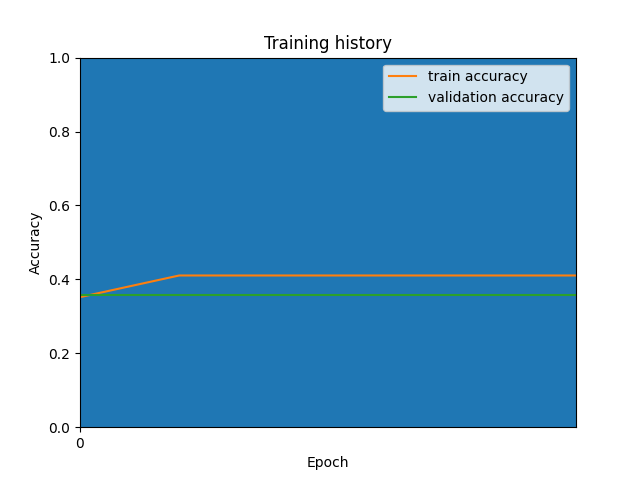
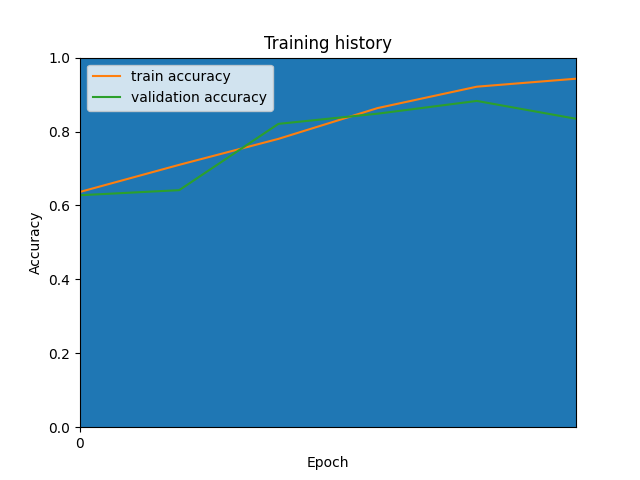
memory problem solved

diff --git a/BERT_Hierarchical_For.py b/BERT_Hierarchical_For.py
@@ -50,36 +50,66 @@ import os
 # 
 # get the 20newsgroups dataset and then split into training set (90%) and validation set(10%)
 
+print('Initializing BertTokenizer')
+
+BERTMODEL='bert-base-uncased'
+CACHE_DIR='transformers-cache'
+
+tokenizer = BertTokenizer.from_pretrained(BERTMODEL, cache_dir=CACHE_DIR,
+                                          do_lower_case=True)
+
 # In[ ]:
 
 
-categories = [ "alt.atheism", "talk.religion.misc", "comp.graphics",]
+#categories = [ "alt.atheism", "talk.religion.misc", "comp.graphics",]
 
 remove = ("headers", "footers", "quotes")
 
-newsgroups = fetch_20newsgroups(subset='train', categories=categories, shuffle=True, 
-                                        random_state=238, remove=remove)
+# newsgroups = fetch_20newsgroups(subset='train', categories=categories, shuffle=True, 
+#                                        random_state=238, remove=remove)
 # val_ng = fetch_20newsgroups(subset='test',  categories=categories, shuffle=True, 
 #                                        random_state=42, remove=remove)
 
-# newsgroups = fetch_20newsgroups(subset='train', shuffle=True, 
-#                                       random_state=238, remove=remove)
+newsgroups = fetch_20newsgroups(subset='train', shuffle=True, 
+                                       random_state=238, remove=remove)
 # test_ng = fetch_20newsgroups(subset='test', shuffle=True, 
 #                                       random_state=238, remove=remove)
 
+
+
 data_train, data_val, label_train, label_val = train_test_split(newsgroups.data, newsgroups.target, test_size=0.1, random_state=42)
+
+
 label_train = label_train.tolist()
 label_val = label_val.tolist()
+"""
+tokenized_data = [tokenizer.tokenize(data) for data in data_train]
+data_length = [len(i) for i in tokenized_data]
+del_data_index = sorted(range(len(data_length)), key=lambda x: data_length[x])[-1000:]
+for index in sorted(del_data_index, reverse=True):
+    del data_train[index]
+    del label_train[index]
+
+tokenized_data = [tokenizer.tokenize(data) for data in data_val]
+data_length = [len(i) for i in tokenized_data]
+del_data_index = sorted(range(len(data_length)), key=lambda x: data_length[x])[-100:]
+for index in sorted(del_data_index, reverse=True):
+    del data_val[index]
+    del label_val[index]
+"""
 train_ng = {'data': data_train, 'target': label_train}
 val_ng = {'data': data_val, 'target': label_val}
 
-print("data loaded")
+#data_train = data_train.pop(66)
+#label_train = label_train.tolist().pop(66)
 
 # print('size of training set:', len(train_ng.data))
 # print('size of validation set:', len(val_ng.data))
 # print('classes:', train_ng.target_names)
 print('size of training set:', len(data_train))
+print('size of training set:', len(label_train))
 print('size of validation set:', len(data_val))
+print('size of validation set:', len(label_val))
 print('classes:', newsgroups.target_names)
 
 # data_train = train_ng.data
@@ -105,20 +135,19 @@ plt.show()
 # In[ ]:
 
 
-print('Initializing BertTokenizer')
+#print('Initializing BertTokenizer')
 
-BERTMODEL='bert-base-uncased'
-CACHE_DIR='transformers-cache'
+#BERTMODEL='bert-base-uncased'
+#CACHE_DIR='transformers-cache'
 
-tokenizer = BertTokenizer.from_pretrained(BERTMODEL, cache_dir=CACHE_DIR,
-                                          do_lower_case=True)
-
+#tokenizer = BertTokenizer.from_pretrained(BERTMODEL, cache_dir=CACHE_DIR,
+#                                          do_lower_case=True)
 
 # In[ ]:
 
 
 if torch.cuda.is_available():    
-    device = torch.device("cuda:2") # specify  devicethe
+    device = torch.device("cuda:1") # specify  devicethe
     print('There are %d GPU(s) available.' % torch.cuda.device_count())
     print('We will use the GPU:', torch.cuda.get_device_name(0))
 
@@ -262,7 +291,7 @@ def create_data_loader(newsgroups, tokenizer, max_len, batch_size):
 
 
 BATCH_SIZE = 16
-#BATCH_SIZE = 4
+#BATCH_SIZE = 83
 MAX_LEN = 512
 
 train_data_loader = create_data_loader(train_ng, tokenizer, MAX_LEN, BATCH_SIZE)
@@ -289,12 +318,26 @@ class BERT_Hierarchical_Model(nn.Module):
         # pooled_output shape: (number of segments of all documents in one batch * 786)
         # In this small example, 7 * 786
         # here not batch_size * 786 because of segmentation of long document
-        _, pooled_output = self.bert(
-            input_ids = input_ids,
-            attention_mask = attention_mask,
-            return_dict=False
-        )
-        
+        # print(input_ids.shape)
+        max_num = 32
+        input_ids = torch.split(input_ids, max_num)
+        attention_mask = torch.split(attention_mask, max_num)
+        print(len(input_ids))
+        print(len(attention_mask))
+        pooled_output_list=[]
+        for i in range(len(input_ids)):
+            _, pooled_output = self.bert(
+              input_ids = input_ids[i],
+              attention_mask = attention_mask[i],
+              return_dict=False
+            )
+            pooled_output_list.append(pooled_output)
+        print(len(pooled_output_list))
+        pooled_output = torch.cat(pooled_output_list)
+        #_, pooled_output = self.bert(
+         #    input_ids = input_ids,
+          #   attention_mask = attention_mask,
+           #  return_dict=False)
         # split according to the number of segments 
         # then know which document the pooled_output belongs to 
         # chunks_emb (tensor([[doc1]]), tensor([[doc2]]), tensor([[doc3 seg1], [doc3 seg2], [doc3 seg3], [doc4 seg4]]), tensor([[doc4]])
@@ -324,10 +367,11 @@ model = model.to(device)
 
 
 # Hyperparameters
-EPOCHS = 10
+EPOCHS = 20
 #EPOCHS = 2
 
 optimizer = AdamW(model.parameters(), lr=2e-5)
+#optimizer = AdamW(model.parameters(), lr=1e-3)
 total_steps = len(train_data_loader) * EPOCHS
 
 scheduler = get_linear_schedule_with_warmup(
@@ -403,7 +447,7 @@ def train_epoch(model, data_loader, loss_fn, optimizer, device, scheduler, n_exa
     print(f"time = {time.time()-t0:.2f} secondes")
     t0 = time.time()
         
-    return np.mean(losses), float(correct_predictions / n_examples)
+    return np.mean(losses), correct_predictions / n_examples
 
 
 # In[ ]:
@@ -443,8 +487,8 @@ def eval_model(model, data_loader, loss_fn, device, n_examples):
 
             correct_predictions += torch.sum(preds == targets)
             losses.append(float(loss.item()))
-
-    return np.mean(losses), float(correct_predictions / n_examples)
+            torch.cuda.empty_cache()
+    return np.mean(losses), correct_predictions / n_examples
 
 
 # In[ ]:
@@ -505,7 +549,7 @@ plt.title('Training history')
 plt.ylabel('Accuracy')
 plt.xlabel('Epoch')
 plt.legend()
-plt.xlim([0, 5])
+#plt.xlim([0, 20])
 plt.ylim([0, 1])
 plt.savefig('BERT_Hierarchical_Model.png')
 

diff --git a/BERT_Hierarchical_Large.py b/BERT_Hierarchical_Large.py
@@ -50,10 +50,18 @@ import os
 # 
 # get the 20newsgroups dataset and then split into training set (90%) and validation set(10%)
 
+print('Initializing BertTokenizer')
+
+BERTMODEL='bert-base-uncased'
+CACHE_DIR='transformers-cache'
+
+tokenizer = BertTokenizer.from_pretrained(BERTMODEL, cache_dir=CACHE_DIR,
+                                          do_lower_case=True)
+
 # In[ ]:
 
 
-categories = [ "alt.atheism", "talk.religion.misc", "comp.graphics",]
+#categories = [ "alt.atheism", "talk.religion.misc", "comp.graphics",]
 
 remove = ("headers", "footers", "quotes")
 
@@ -68,16 +76,37 @@ newsgroups = fetch_20newsgroups(subset='train', shuffle=True,
 #                                       random_state=238, remove=remove)
 
 data_train, data_val, label_train, label_val = train_test_split(newsgroups.data, newsgroups.target, test_size=0.1, random_state=42)
+
+
+label_train = label_train.tolist()
+label_val = label_val.tolist()
+tokenized_data = [tokenizer.tokenize(data) for data in data_train]
+data_length = [len(i) for i in tokenized_data]
+del_data_index = sorted(range(len(data_length)), key=lambda x: data_length[x])[-1000:]
+for index in sorted(del_data_index, reverse=True):
+    del data_train[index]
+    del label_train[index]
+
+tokenized_data = [tokenizer.tokenize(data) for data in data_val]
+data_length = [len(i) for i in tokenized_data]
+del_data_index = sorted(range(len(data_length)), key=lambda x: data_length[x])[-100:]
+for index in sorted(del_data_index, reverse=True):
+    del data_val[index]
+    del label_val[index]
+
 train_ng = {'data': data_train, 'target': label_train}
 val_ng = {'data': data_val, 'target': label_val}
 
-print("data loaded")
+#data_train = data_train.pop(66)
+#label_train = label_train.tolist().pop(66)
 
 # print('size of training set:', len(train_ng.data))
 # print('size of validation set:', len(val_ng.data))
 # print('classes:', train_ng.target_names)
 print('size of training set:', len(data_train))
+print('size of training set:', len(label_train))
 print('size of validation set:', len(data_val))
+print('size of validation set:', len(label_val))
 print('classes:', newsgroups.target_names)
 
 # data_train = train_ng.data
@@ -103,14 +132,13 @@ plt.show()
 # In[ ]:
 
 
-print('Initializing BertTokenizer')
+#print('Initializing BertTokenizer')
 
-BERTMODEL='bert-base-uncased'
-CACHE_DIR='transformers-cache'
+#BERTMODEL='bert-base-uncased'
+#CACHE_DIR='transformers-cache'
 
-tokenizer = BertTokenizer.from_pretrained(BERTMODEL, cache_dir=CACHE_DIR,
-                                          do_lower_case=True)
-
+#tokenizer = BertTokenizer.from_pretrained(BERTMODEL, cache_dir=CACHE_DIR,
+#                                          do_lower_case=True)
 
 # In[ ]:
 
@@ -259,8 +287,8 @@ def create_data_loader(newsgroups, tokenizer, max_len, batch_size):
 # In[ ]:
 
 
-#BATCH_SIZE = 16
-BATCH_SIZE = 1
+BATCH_SIZE = 16
+#BATCH_SIZE = 83
 MAX_LEN = 512
 
 train_data_loader = create_data_loader(train_ng, tokenizer, MAX_LEN, BATCH_SIZE)
@@ -287,12 +315,21 @@ class BERT_Hierarchical_Model(nn.Module):
         # pooled_output shape: (number of segments of all documents in one batch * 786)
         # In this small example, 7 * 786
         # here not batch_size * 786 because of segmentation of long document
+        # print(input_ids.shape)
+        #pooled_output_list=[]
+        #for i in range(len(input_ids)):
+           # _, pooled_output = self.bert(
+            #input_ids = input_ids[i].unsqueeze(0),
+            #attention_mask = attention_mask[i].unsqueeze(0),
+            #return_dict=False
+            #)
+            #pooled_output_list.append(pooled_output)
+
+        #pooled_output = torch.cat(pooled_output_list)
         _, pooled_output = self.bert(
-            input_ids = input_ids,
-            attention_mask = attention_mask,
-            return_dict=False
-        )
-        
+             input_ids = input_ids,
+             attention_mask = attention_mask,
+             return_dict=False)
         # split according to the number of segments 
         # then know which document the pooled_output belongs to 
         # chunks_emb (tensor([[doc1]]), tensor([[doc2]]), tensor([[doc3 seg1], [doc3 seg2], [doc3 seg3], [doc4 seg4]]), tensor([[doc4]])
@@ -313,7 +350,7 @@ class BERT_Hierarchical_Model(nn.Module):
 # In[ ]:
 
 
-model = BERT_Hierarchical_Model(len(train_ng['target']))
+model = BERT_Hierarchical_Model(len(set(train_ng['target'])))
 #model =  BERT_Hierarchical_Model(len(train_ng.target_names))
 model = model.to(device)
 
@@ -322,10 +359,11 @@ model = model.to(device)
 
 
 # Hyperparameters
-EPOCHS = 10
+EPOCHS = 20
 #EPOCHS = 2
 
 optimizer = AdamW(model.parameters(), lr=2e-5)
+#optimizer = AdamW(model.parameters(), lr=0.1)
 total_steps = len(train_data_loader) * EPOCHS
 
 scheduler = get_linear_schedule_with_warmup(
@@ -390,6 +428,7 @@ def train_epoch(model, data_loader, loss_fn, optimizer, device, scheduler, n_exa
 
         correct_predictions += torch.sum(preds == targets)
         losses.append(float(loss.item()))
+        #losses.append(loss.item())
         
         loss.backward()
         nn.utils.clip_grad_norm_(model.parameters(), max_norm=1.0)
@@ -401,7 +440,7 @@ def train_epoch(model, data_loader, loss_fn, optimizer, device, scheduler, n_exa
     print(f"time = {time.time()-t0:.2f} secondes")
     t0 = time.time()
         
-    return np.mean(losses), float(correct_predictions / n_examples)
+    return np.mean(losses), correct_predictions/n_examples#float(correct_predictions / n_examples)
 
 
 # In[ ]:
@@ -441,8 +480,9 @@ def eval_model(model, data_loader, loss_fn, device, n_examples):
 
             correct_predictions += torch.sum(preds == targets)
             losses.append(float(loss.item()))
+            #losses.append(loss.item())
             torch.cuda.empty_cache()
-    return np.mean(losses), float(correct_predictions / n_examples)
+    return np.mean(losses), correct_predictions/n_examples#float(correct_predictions / n_examples)
 
 
 # In[ ]:
@@ -503,7 +543,7 @@ plt.title('Training history')
 plt.ylabel('Accuracy')
 plt.xlabel('Epoch')
 plt.legend()
-plt.xlim([0, 5])
+#plt.xlim([0, 20])
 plt.ylim([0, 1])
 plt.savefig('BERT_Hierarchical_Model.png')
 
